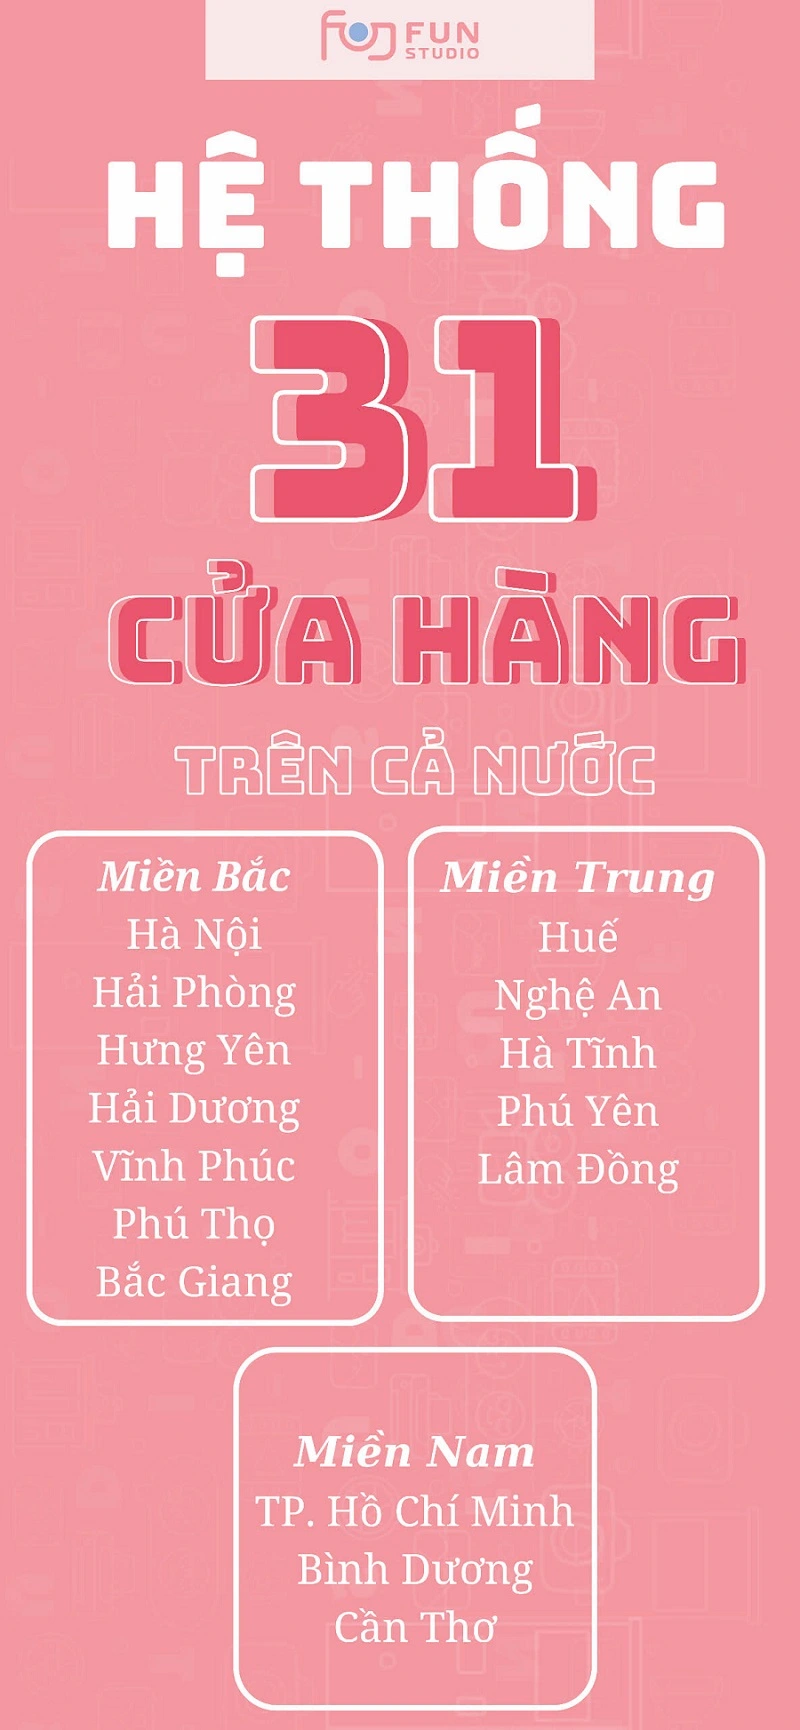
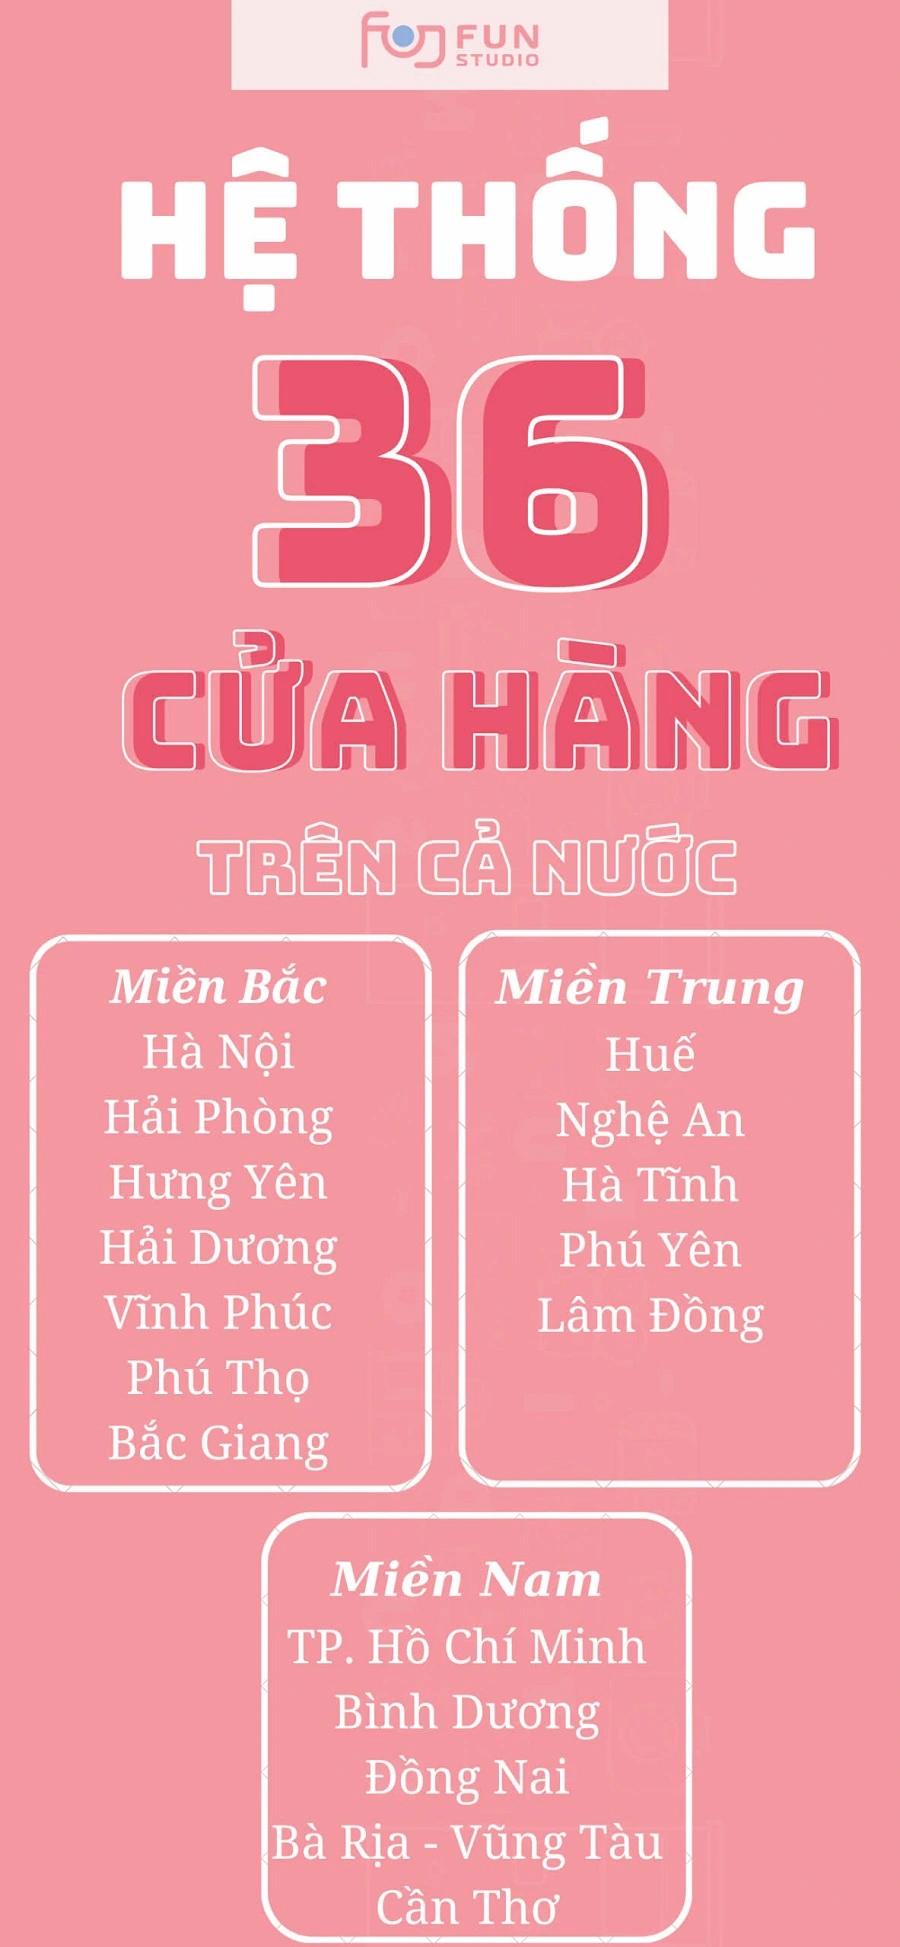
Add more image

Changed region(s): [[0.2812, 0.7491, 0.7812, 0.9988], [0.2812, 0.1561, 0.75, 0.3121], [0.3438, 0.7491, 0.375, 0.7803]]

diff --git a/src/store/static-data/static-data.data.ts b/src/store/static-data/static-data.data.ts
@@ -52,6 +52,13 @@ import funGiaLamTrauQuyImage from 'assets/images/stores/fun_gia_lam_trau_quy.web
 import funDongAnhUyNoImage from 'assets/images/stores/fun_dong_anh_uy_no.webp';
 import funCanLocHaTinhImage from 'assets/images/stores/fun_can_loc_ha_tinh.webp';
 
+import funDucTrongLamDongImage from 'assets/images/stores/fun_duc_trong_lam_dong.webp';
+import funLeLoiHungYenImage from 'assets/images/stores/fun_le_loi_hung_yen.webp';
+import funLyTuTrongLamDongImage from 'assets/images/stores/fun_ly_tu_trong_lam_dong.webp';
+import funMyHaoHungYenImage from 'assets/images/stores/fun_my_hao_hung_yen.webp';
+import funNgoQuyenHaiPhongImage from 'assets/images/stores/fun_ngo_quyen_hai_phong.webp';
+import funTranDaiNghiaHaNoiImage from 'assets/images/stores/fun_tran_dai_nghia_ha_noi.webp';
+
 import dianaLogoImage from 'assets/diana/images/logo.png';
 import congluanImage from 'assets/images/home/bao_cong_luan.webp';
 import dianaFacebookEventImage from 'assets/images/home/diana_facebook_event.webp';
@@ -87,6 +94,8 @@ export enum StoreLocationType {
   BAC_GIANG = 'bac-giang',
   BINH_DUONG = 'binh-duong',
   HA_TINH = 'ha-tinh',
+
+  LAM_DONG = 'lam-dong',
 
   OTHER = 'other',
 }
@@ -337,6 +346,61 @@ export const funStores: Array<StoreType> = [
     alt: 'Fun Studio Thủ Đức',
     image: funThuDucHCMImage,
     storeLocation: StoreLocationType.HCM,
+    href: '#',
+  },
+  {
+    label: '72 Phó Đức Chính, Tx. Mỹ Hào, Hưng yên',
+    labelIndex: 'Fun Studio Phố Nối',
+    value: 22,
+    alt: 'Fun Studio Phố Nối',
+    image: funMyHaoHungYenImage,
+    storeLocation: StoreLocationType.HUNG_YEN,
+    href: '#',
+  },
+  {
+    label: '78 Trần Đại Nghĩa, Hai Bà Trưng, Hà Nội',
+    labelIndex: 'Deluxe by Fun Studio',
+    value: 23,
+    alt: 'Deluxe by Fun Studio',
+    image: funTranDaiNghiaHaNoiImage,
+    storeLocation: StoreLocationType.HANOI,
+    href: '#',
+  },
+  {
+    label: '47 Điện Biên 1, Phường Lê Lợi, TP. Hưng Yên',
+    labelIndex: 'Fun Studio Hưng Yên',
+    value: 24,
+    alt: 'Fun Studio Hưng Yên',
+    image: funLeLoiHungYenImage,
+    storeLocation: StoreLocationType.HUNG_YEN,
+    href: '#',
+  },
+
+  {
+    label: '223 P. Lê Lợi, Gia Viên, Ngô Quyền, Hải Phòng ',
+    labelIndex: 'Fun Studio Ngô Quyền',
+    value: 25,
+    alt: 'Fun Studio Ngô Quyền',
+    image: funNgoQuyenHaiPhongImage,
+    storeLocation: StoreLocationType.HAIPHONG,
+    href: '#',
+  },
+  {
+    label: 'Số 6 Duy Tân, Liên Nghĩa, Đức Trọng, Lâm Đồng ',
+    labelIndex: 'Fun Studio Đức Trọng',
+    value: 26,
+    alt: 'Fun Studio Đức Trọng',
+    image: funDucTrongLamDongImage,
+    storeLocation: StoreLocationType.LAM_DONG,
+    href: '#',
+  },
+  {
+    label: 'Số 65 Lý Tự Trọng, Phường 1, thành phố Bảo Lộc, tỉnh Lâm Đồng',
+    labelIndex: 'Fun Studio Bảo Lộc',
+    value: 27,
+    alt: 'Fun Studio Bảo Lộc',
+    image: funLyTuTrongLamDongImage,
+    storeLocation: StoreLocationType.LAM_DONG,
     href: '#',
   },
 ];